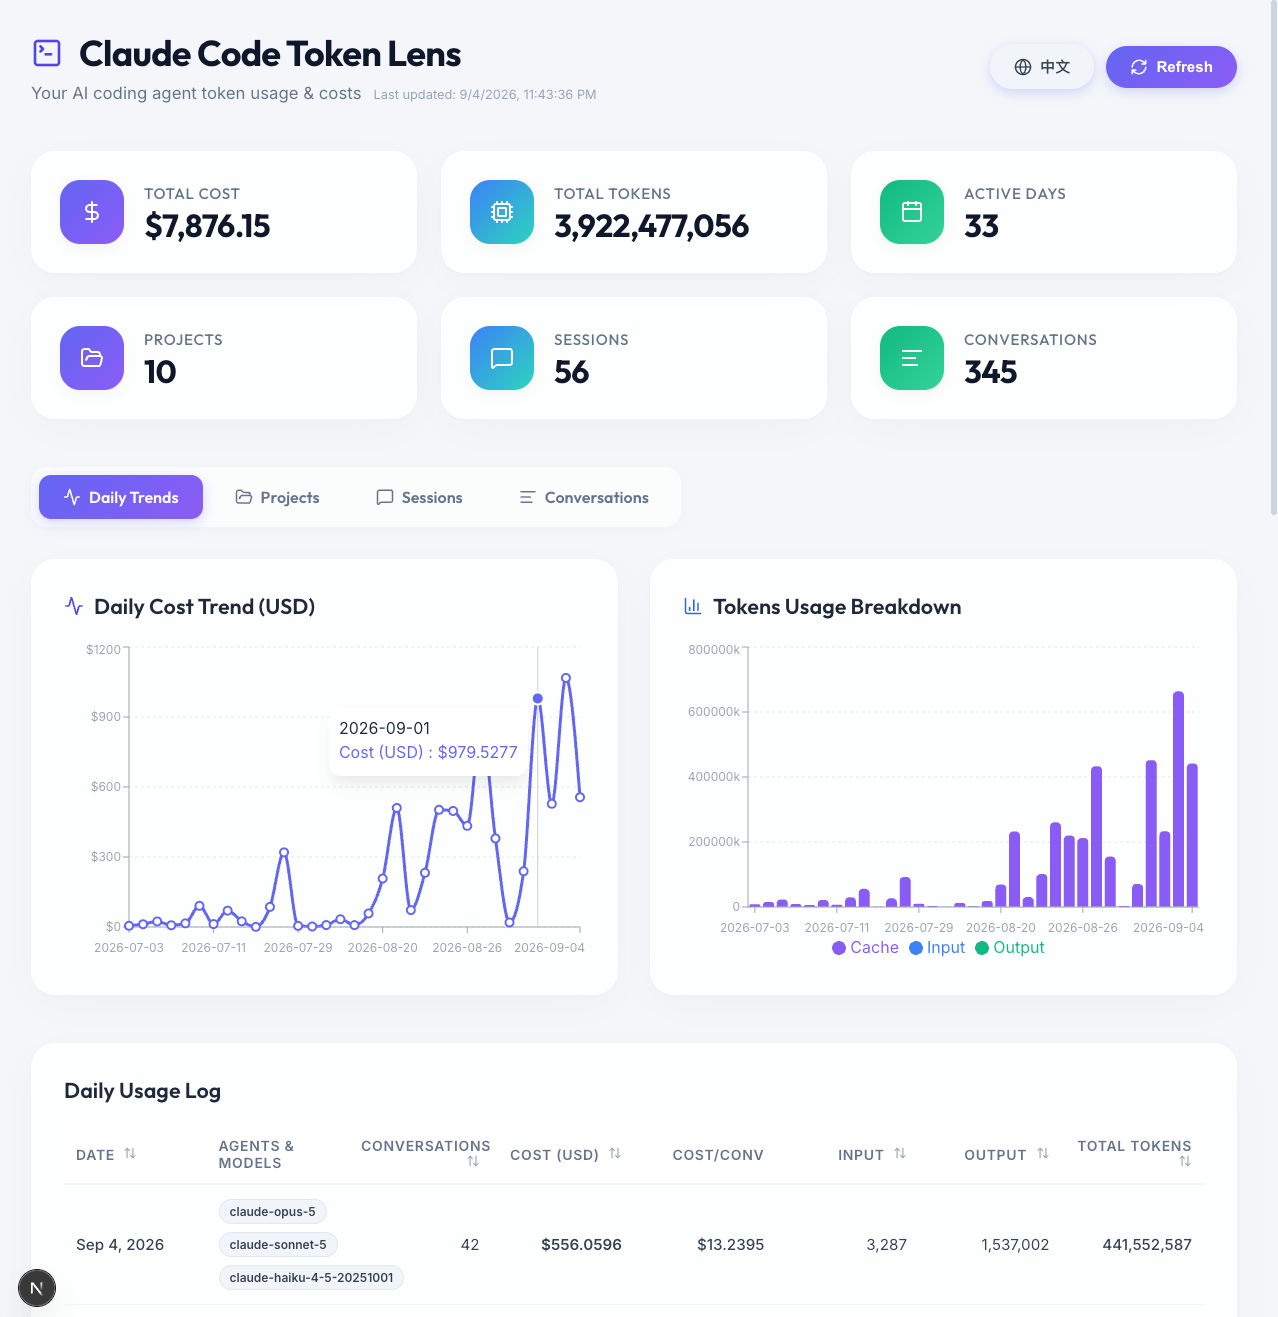
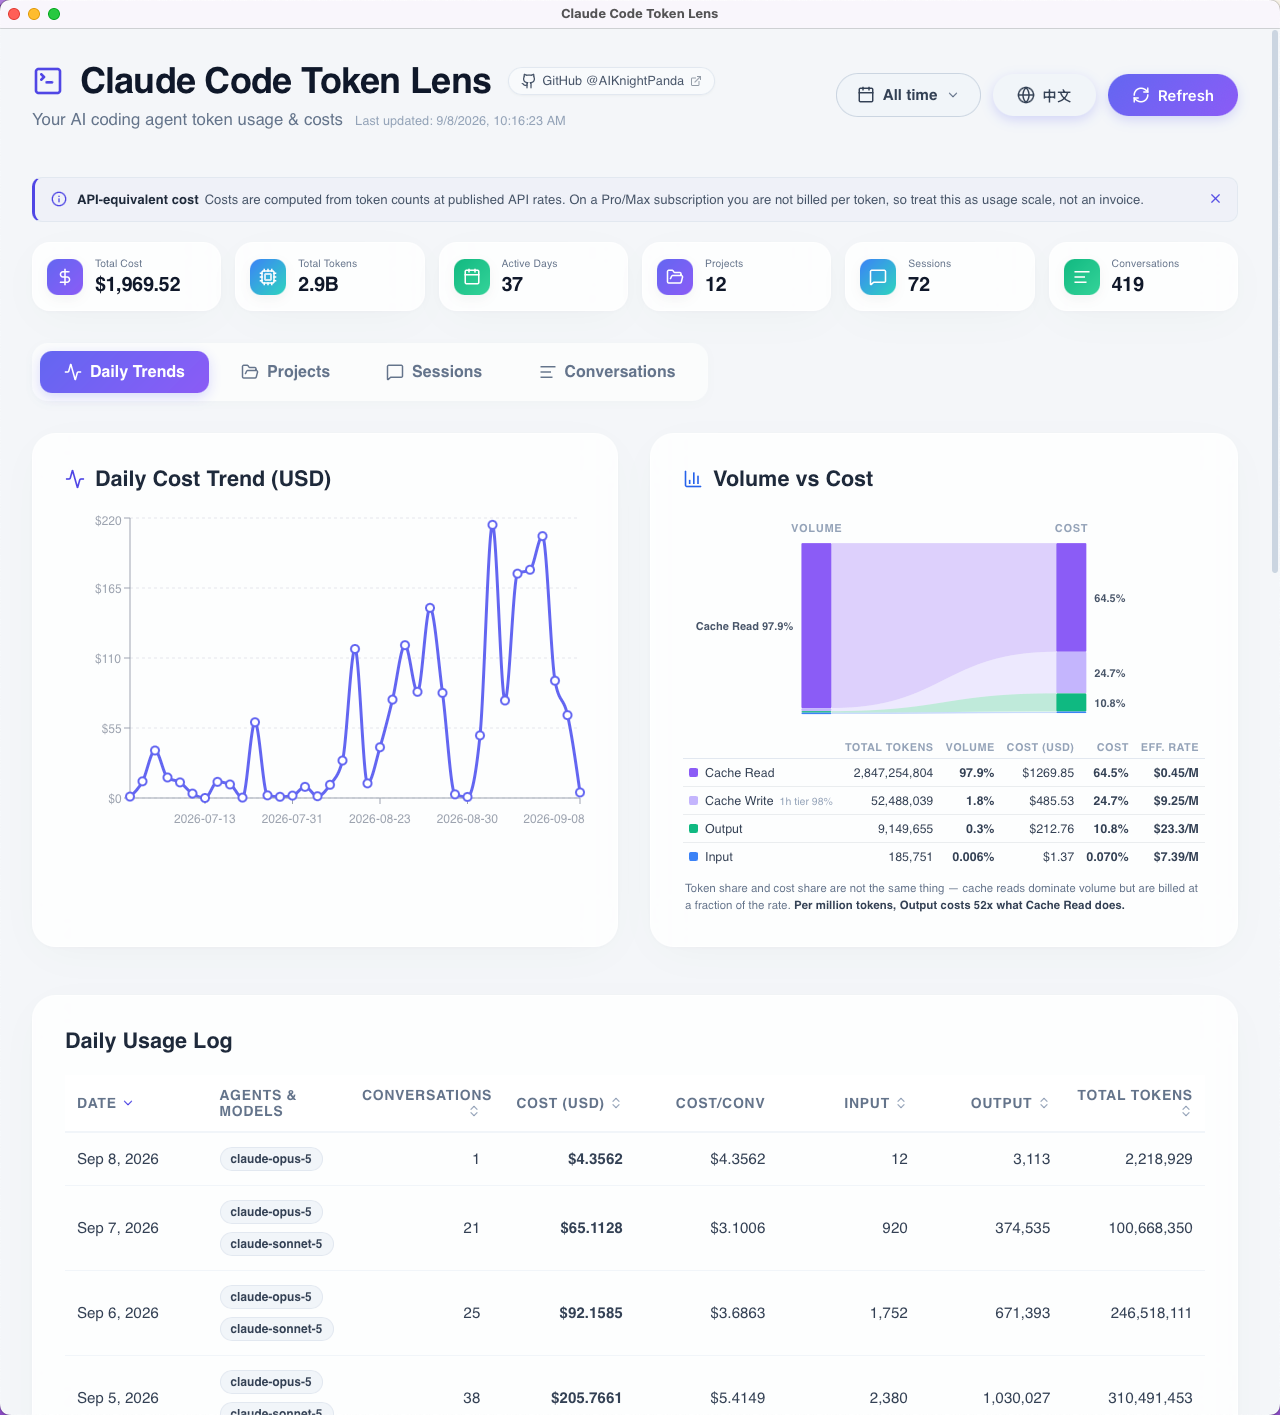
docs: trim the README down to the pitch, drop docs/
The README opened with an unfulfilled promise (platform-agnostic,
future Cursor/Aider support) and then listed eight features like a
spec sheet. Lead with what the app is for instead: seeing cost per
project, per session, per conversation, so you can tell which prompts
are burning tokens and stop writing them.

- Rewrite the intro and "why this exists" around that.
- Cut the feature list to four: comparison across levels, money rather
  than token counts, local-only reads, incremental parsing.
- Remove docs/RELEASING.md. Nothing linked to it; it stays in history.
- Refresh both dashboard screenshots for the redesigned header.

diff --git a/README.md b/README.md
@@ -4,13 +4,15 @@
 
 ![Claude Code Token Lens](public/dashboard_preview.png)
 
-**Claude Code Token Lens** is a beautiful, local-first token usage tracker and analytics dashboard for AI coding agents. 
+**Claude Code Token Lens** is a local desktop app that shows you what your Claude Code usage actually costs — broken down by project, by session, and by every single conversation.
 
-Initially built to parse local logs for **Claude Code**, the architecture is designed to be platform-agnostic, allowing future support for other AI agents (Cursor, Aider, GitHub Copilot CLI, etc.). It aggregates token usage, calculates exact costs, and visualizes daily trends with rich, interactive drill-down capabilities (Project > Session > Conversation > Turns).
+It reads the `.jsonl` logs Claude Code already writes to `~/.claude/projects/` on your machine, and lays every prompt out side by side with its price. Once you can see which conversations cost many times what the others did, you can see what you were doing differently — and stop burning tokens on it.
 
 ## 🎯 Why this exists
 
-While you work, Claude Code tells you nothing about what it costs. Not what this conversation just spent, not whether that was a lot or a little, not which project is quietly eating your month. The usage happens, and then it's gone.
+Claude Code tells you how many tokens a conversation used. It never tells you what that was worth.
+
+And a token count on its own doesn't mean much: not whether that was a lot or a little, not how it compares to the prompt before it, not which project is quietly eating your month. The usage happens, and then it's gone.
 
 This gives you the number back — and, more importantly, something to compare it against:
 
@@ -19,18 +21,14 @@ This gives you the number back — and, more importantly, something to compare i
 - **Per conversation** — what that single prompt cost, listed right next to every other one
 - **Per turn** — drill in and see where inside a conversation the money actually went
 
-Because it all sits in one sortable list, an expensive conversation stops being a mystery. You can see it beside the cheap ones and work out what was different — and the totals are the same numbers all the way down, so a project's cost is exactly the sum of the prompts inside it.
+The totals are the same numbers all the way down, so a project's cost is exactly the sum of the prompts inside it.
 
 ## ✨ Features
 
-- 🔒 **Local-First & Secure**: Runs entirely on your local machine. It reads your agent's local JSON logs without sending your private codebase or prompt history to any external server. Your data stays yours.
-- 📊 **Detailed Dashboards**: View your total cost, token consumption, and active days at a glance through a modern, glassmorphism-inspired UI.
-- 📈 **Daily Trends**: A cost trend line plus a per-day usage log, filterable to the last 7 / 30 days.
-- ⚖ **Volume vs Cost**: Token share and cost share side by side. Cache reads routinely account for ~98% of tokens but a fraction of the bill, while output tokens are the reverse — the chart shows that mismatch and the effective $/M rate for each tier.
-- 🔍 **Deep Drill-Down UI**: Seamlessly filter and navigate from **Projects** -> **Sessions** -> **Conversations** -> **Individual Turns**.
-- 🏷 **Smart Filtering**: Inline filter bubbles make it easy to see exactly what context you are viewing, with one-click clearing.
-- 💵 **Accurate Cost Accounting**: Deduplicates the log's repeated `usage` records, prices 5-minute and 1-hour cache writes separately, and accounts for fast-mode and server-tool billing.
-- ✅ **Verifiable**: `npm run verify` recomputes every figure from the raw logs with an independent code path and asserts that all aggregation layers agree.
+- 🔍 **Compare, don't just total**: Projects → Sessions → Conversations → Turns, each level a sortable list. An expensive conversation stops being a mystery once it sits beside the cheap ones.
+- 💵 **Money, not just tokens**: Every row carries a cost, priced per tier — cache reads are ~98% of your tokens and a rounding error on the bill; output tokens are the reverse.
+- 🔒 **Local-first & secure**: Reads only `~/.claude/projects/`, enforced in Rust rather than in the UI. No outbound network requests, no telemetry, nothing uploaded.
+- ⚡ **Fast on large logs**: The first launch scans everything and caches it; later refreshes read only the bytes appended since. Single session logs of 60MB+ open without a stall.
 
 ## 🚀 Getting Started
 

diff --git a/README_zh.md b/README_zh.md
@@ -4,13 +4,15 @@
 
 ![Claude Code Token Lens](public/dashboard_preview_CN.png)
 
-**Claude Code Token Lens** 是一款美观、本地优先的 AI 编程助手 Token 使用量追踪器和分析面板。
+**Claude Code Token Lens** 是一个本地桌面应用，把你用 Claude Code 的花费按**项目、会话、每一次对话**逐层拆开给你看。
 
-本项目最初为了解析 **Claude Code** 的本地日志而构建，其底层架构设计具备平台不可知性（Platform-agnostic），未来可以轻松支持其他 AI 编程助手（如 Cursor、Aider、GitHub Copilot CLI 等）。它能汇总 Token 使用量、精确计算 API 成本，并通过丰富的交互式下钻功能（项目 > 会话 > 对话 > 轮次），将每日使用趋势可视化呈现。
+它读的就是 Claude Code 已经写在你机器上 `~/.claude/projects/` 里的 `.jsonl` 日志，把每一条提示词和它的价格并排列出来。当你能看到哪几次对话比别的贵出好几倍，你就能看出当时做了什么不一样的事 —— 然后别再那样浪费 token。
 
 ## 🎯 为什么做这个
 
-用 Claude Code 的时候，它不会告诉你花了多少钱。这次对话消耗了多少？比上一次多还是少？哪个项目在悄悄吃掉你这个月的额度？都看不到。用量就这么产生了，然后消失了。
+Claude Code 只会告诉你这次对话消耗了多少 token，从不告诉你这值多少钱。
+
+而单看一个 token 数其实说明不了什么：多还是少？比上一条提示词高还是低？哪个项目在悄悄吃掉你这个月的额度？都看不出来。用量就这么产生了，然后消失了。
 
 这个工具把这个数字还给你，更重要的是给你一个**可以对比的参照**：
 
@@ -19,18 +21,14 @@
 - **每次对话** —— 你发的那一条提示词花了多少，和其他所有对话并排列着
 - **每次交互** —— 下钻进去，看清钱具体花在这次对话的哪一步
 
-因为都在同一张可排序的列表里，一次贵得离谱的对话就不再是个谜 —— 你能把它和便宜的那些放在一起看，找出差别在哪。而且每一层的合计都严格相等：一个项目的花费，就是它里面所有提示词加起来的数。
+每一层的合计都严格相等：一个项目的花费，就是它里面所有提示词加起来的数。
 
 ## ✨ 特性
 
-- 🔒 **本地优先 & 安全**：完全在您的本地机器上运行。它只读取您代理的本地 JSON 日志，绝不会将您的私有代码库或提示词（Prompt）历史发送到任何外部服务器。您的数据只属于您自己。
-- 📊 **详细的分析面板**：通过充满现代感、毛玻璃（Glassmorphism）风格的 UI，一眼查看总成本、Token 消耗量以及活跃天数。
-- 📈 **每日趋势**：成本趋势折线加每日消耗明细，可按近 7 天 / 30 天筛选。
-- ⚖ **用量 vs 成本**：把 token 占比和成本占比并排对照。缓存读取常年占到 token 总量的约 98%，却只花掉一小部分钱；输出 token 恰好相反。这张图把这种错位以及各档位的有效单价直接画出来。
-- 🔍 **深度下钻 UI**：无缝过滤和导航，层级支持 **项目** -> **会话** -> **对话** -> **具体单次交互**。
-- 🏷 **智能过滤**：内联过滤标签，让您清晰知道当前查看的数据上下文，并支持一键清除。
-- 💵 **准确的成本核算**：剔除日志中重复记录的 `usage`，区分 5 分钟与 1 小时缓存写入的不同费率，并计入 fast 模式与服务端工具的计费。
-- ✅ **可自证**：`npm run verify` 会用一条独立的代码路径从原始日志重算全部数字，并断言各聚合层级完全一致。
+- 🔍 **不只给总数，更给对比**：项目 → 会话 → 对话 → 交互，每一层都是一张可排序的列表。一次贵得离谱的对话，放在便宜的那些旁边就不再是个谜。
+- 💵 **看的是钱，不是 token 数**：每一行都带成本，按档位分别计价 —— 缓存读取常年占 token 总量的约 98%，在账单上却几乎可以忽略；输出 token 恰好相反。
+- 🔒 **本地优先 & 安全**：只读 `~/.claude/projects/`，这条限制写在 Rust 侧而不是界面里。不发起任何对外网络请求，没有遥测，不上传任何东西。
+- ⚡ **大日志也不卡**：首次启动全量扫描并缓存，之后只读新追加的字节。单个 60MB+ 的会话日志照样秒开。
 
 ## 🚀 快速开始
 
